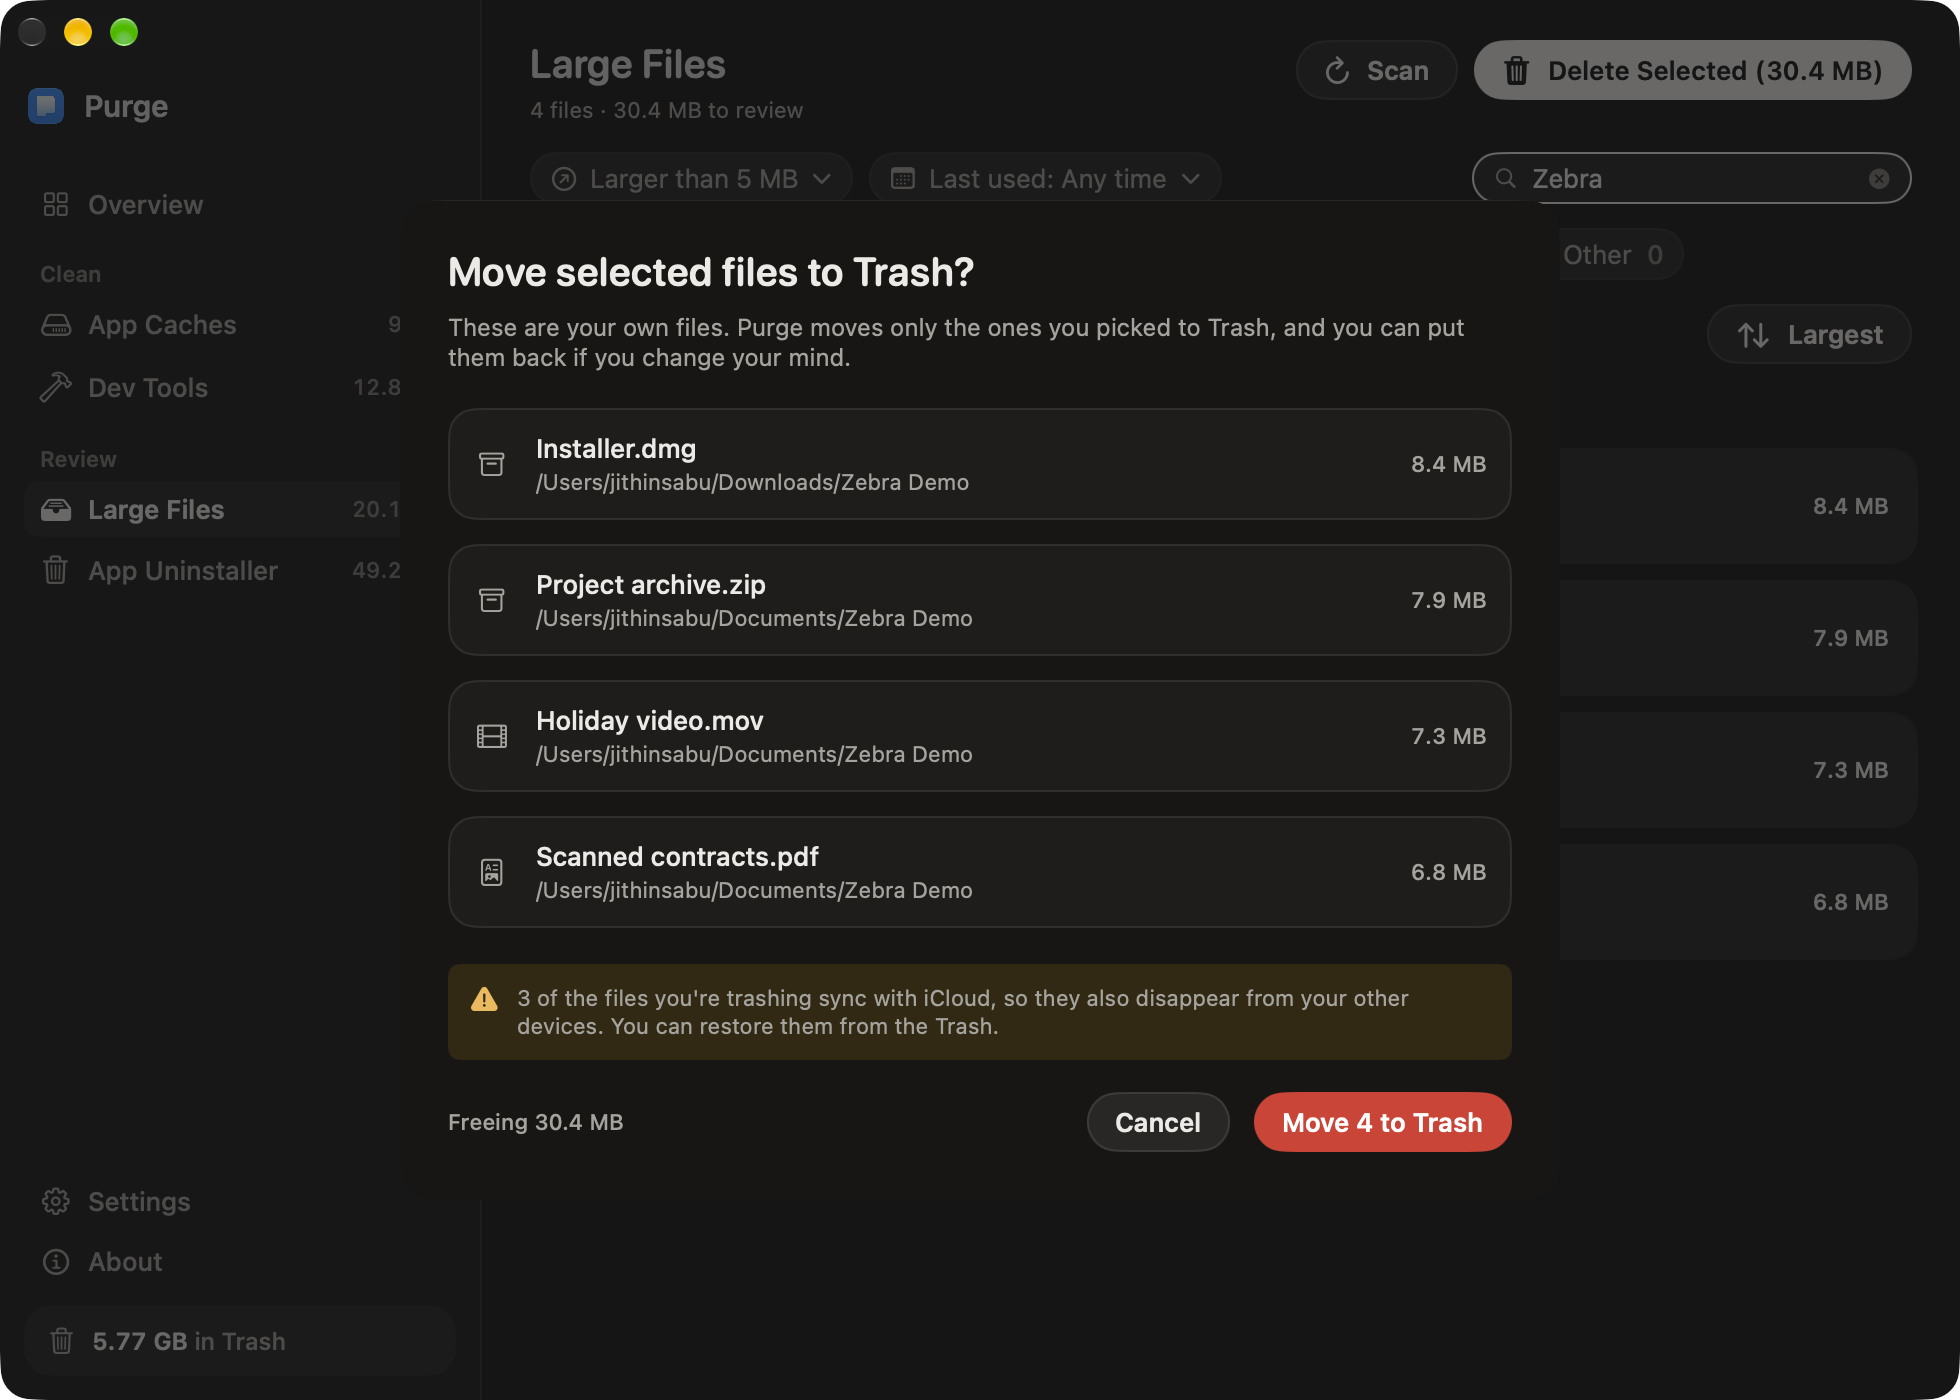
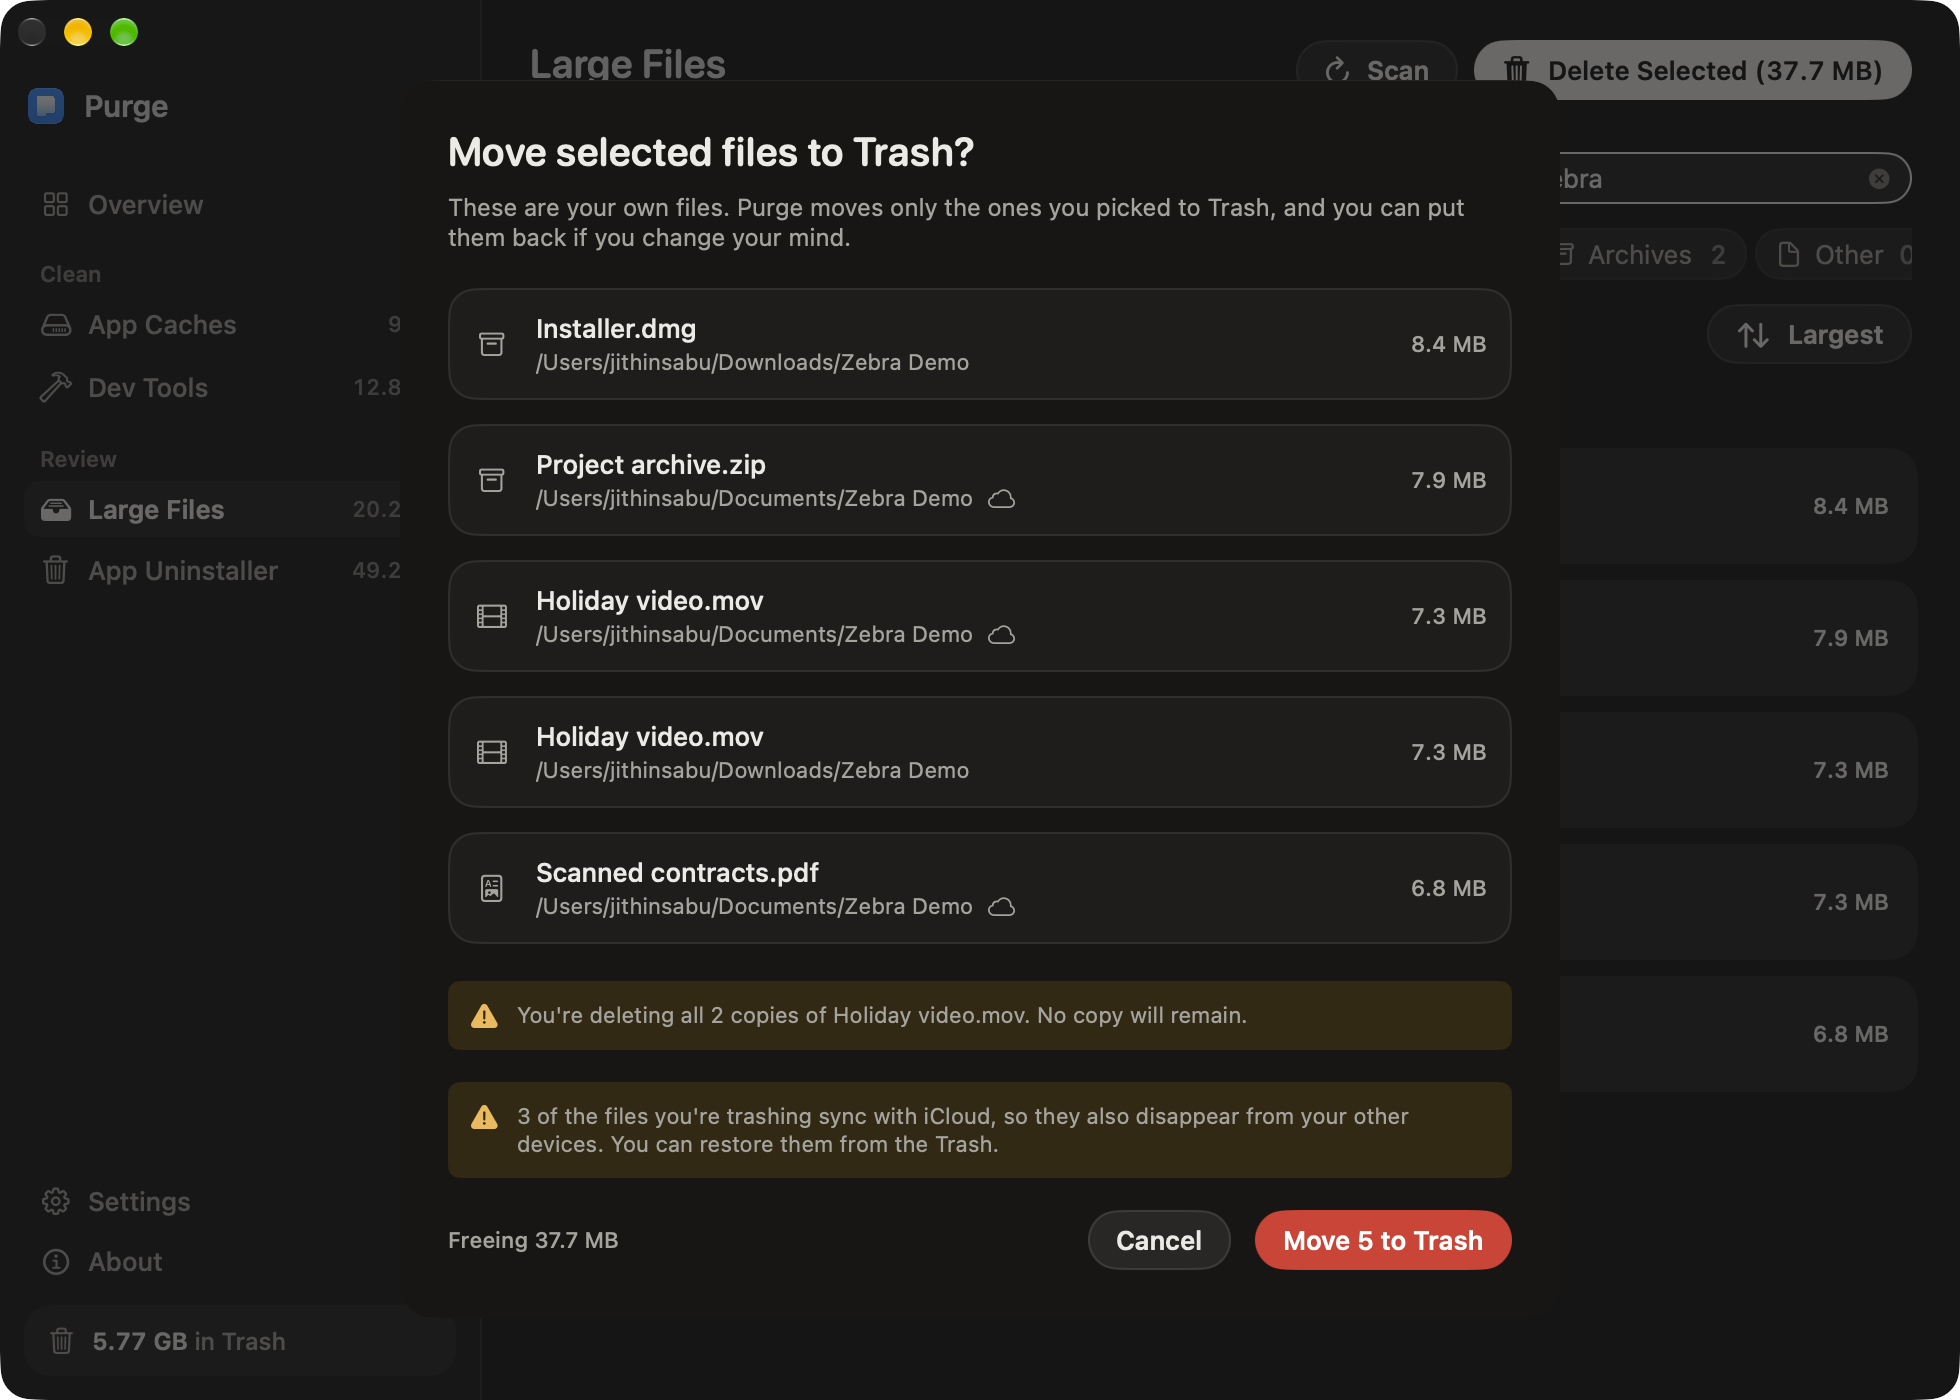
fix: show the iCloud cloud on both trash sheets
The trash confirmation and the duplicates sheet now mark synced files with
the same gray cloud as the list, so the warning has rows to point at.
Screenshots retaken from the running app; dark only.

diff --git a/purge/Views/LargeFilesView.swift b/purge/Views/LargeFilesView.swift
@@ -1118,13 +1118,8 @@ private struct LargeFileRow: View {
                         .accessibilityAddTraits(.isButton)
                         .accessibilityAction(.default, revealInFinder)
 
-                    // Gray, like Finder's cloud: with Desktop & Documents syncing,
-                    // most rows from those folders carry it, so it stays quiet.
                     if file.syncsWithICloud {
-                        Image(systemName: "icloud")
-                            .foregroundStyle(AppColors.textSecondary)
-                            .help("Syncs with iCloud. Trashing it also removes it from your other devices.")
-                            .accessibilityLabel("Syncs with iCloud")
+                        LargeFileICloudMark()
                     }
 
                     Text("·")
@@ -1398,11 +1393,17 @@ struct LargeFileDeletionConfirmSheet: View {
                     .foregroundStyle(AppColors.textPrimary)
                     .lineLimit(1)
                     .truncationMode(.middle)
-                Text(file.path.deletingLastPathComponent().path)
-                    .font(AppStyle.Typography.metadata)
-                    .foregroundStyle(AppColors.textSecondary)
-                    .lineLimit(1)
-                    .truncationMode(.middle)
+                HStack(spacing: 6) {
+                    Text(file.path.deletingLastPathComponent().path)
+                        .font(AppStyle.Typography.metadata)
+                        .foregroundStyle(AppColors.textSecondary)
+                        .lineLimit(1)
+                        .truncationMode(.middle)
+
+                    if file.syncsWithICloud {
+                        LargeFileICloudMark()
+                    }
+                }
             }
 
             Spacer(minLength: AppStyle.Spacing.xSmall)
@@ -1616,6 +1617,10 @@ struct DuplicateCleanupSheet: View {
                 .lineLimit(1)
                 .truncationMode(.middle)
 
+            if file.syncsWithICloud {
+                LargeFileICloudMark()
+            }
+
             Spacer(minLength: AppStyle.Spacing.xSmall)
 
             statusTag(isKeeper: isKeeper)
@@ -1625,7 +1630,10 @@ struct DuplicateCleanupSheet: View {
         .contentShape(Rectangle())
         .onTapGesture { keeperByGroup[set.id] = file.id }
         .accessibilityElement(children: .combine)
-        .accessibilityLabel(file.path.deletingLastPathComponent().path)
+        .accessibilityLabel(
+            file.path.deletingLastPathComponent().path
+                + (file.syncsWithICloud ? ", syncs with iCloud" : "")
+        )
         .accessibilityValue(isKeeper ? "Keeping" : "Moving to Trash")
         .accessibilityAddTraits(isKeeper ? [.isSelected] : [])
     }
@@ -1642,6 +1650,19 @@ struct DuplicateCleanupSheet: View {
                 Capsule(style: .continuous)
                     .fill(isKeeper ? AppColors.statusSafeFill : AppColors.statusDangerFill)
             )
+    }
+}
+
+/// The cloud on a synced file, in the scan list and on both trash sheets. Gray,
+/// like Finder's: with Desktop & Documents syncing, most rows from those folders
+/// carry it, so it stays quiet.
+fileprivate struct LargeFileICloudMark: View {
+    var body: some View {
+        Image(systemName: "icloud")
+            .font(AppStyle.Typography.metadata)
+            .foregroundStyle(AppColors.textSecondary)
+            .help("Syncs with iCloud. Trashing it also removes it from your other devices.")
+            .accessibilityLabel("Syncs with iCloud")
     }
 }
 
